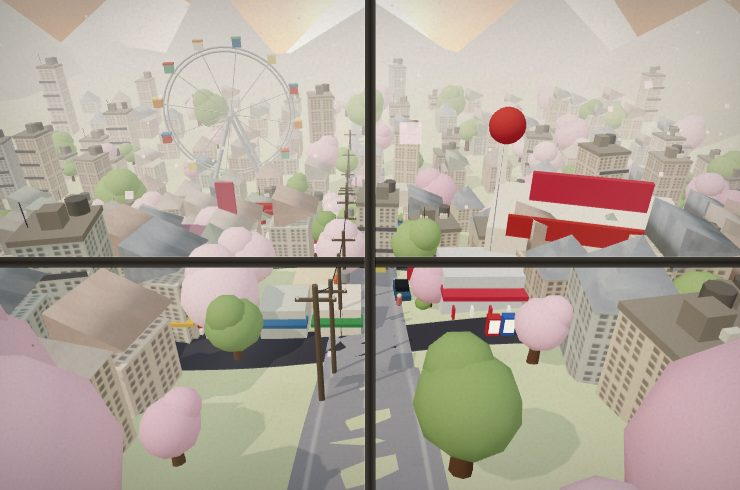
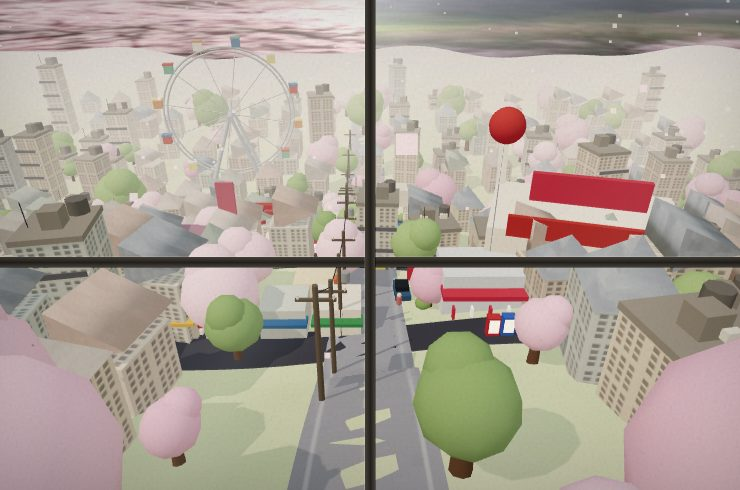
実写遠景を春へ展開（実写化PDCA・3/4季）
- kitaterao-window-3d-spring に実写の春の里山(桜・若草) bg3d。低ポリ遠山を実写に置換
- これで昼・夜・春・秋に実写遠景。冬のみ生成継続中
- CREDITS記録・春サムネ更新

diff --git a/src/data/scenes/kitaterao-window-3d-spring.js b/src/data/scenes/kitaterao-window-3d-spring.js
@@ -10,6 +10,7 @@ export default {
   status: 'ready',
   render: 'town3d', // Three.js ビューア（src/engine/town3dViewer.js）
   town3dWeather: 'petals', // 桜の花びらを降らせる
+  bg3d: 'bg/town3d-spring.jpg', // 奥に敷く実写の春の里山（桜・若草／遠景を写真級に）
 
   palette: {
     early: {

diff --git a/CREDITS.md b/CREDITS.md
@@ -109,6 +109,7 @@
 | 「北寺尾の窓辺、立体の街」奥の実写遠景 | `public/bg/town3d-day.jpg` | Pollinations.AI / Flux モデル（無料） | 生成日 2026-06-16・seed 5・1536×640 |
 | 「立体の街（夜）」奥の実写遠景 | `public/bg/town3d-night.jpg` | Pollinations.AI / Flux モデル（無料） | 生成日 2026-06-16・seed 6・1536×640 |
 | 「立体の街（紅葉）」奥の実写遠景 | `public/bg/town3d-autumn.jpg` | Pollinations.AI / Flux モデル（無料） | 生成日 2026-06-16・seed 8・1536×640 |
+| 「立体の街（花）」奥の実写遠景 | `public/bg/town3d-spring.jpg` | Pollinations.AI / Flux モデル（無料） | 生成日 2026-06-16・seed 7・1536×640 |
 
 - プロンプト（夕暮れ）: `dreamy painterly dusk over a quiet Japanese small town, deep violet and rose twilight sky, faint distant rooftops and a single far hill on the low horizon, soft mist and rain haze, blurred warm street lights glowing far away, watercolor texture, muted melancholic palette, atmospheric, cinematic soft focus, no people, no text`
 - プロンプト（夜）: `dreamy painterly rainy night over a quiet Japanese town, deep indigo and navy sky, distant blurred rooftops, many small warm glowing window lights and street lamps scattered through the misty distance, soft rain haze, watercolor and gentle realism, calm melancholic healing mood, muted tones, atmospheric bokeh, no people, no text`